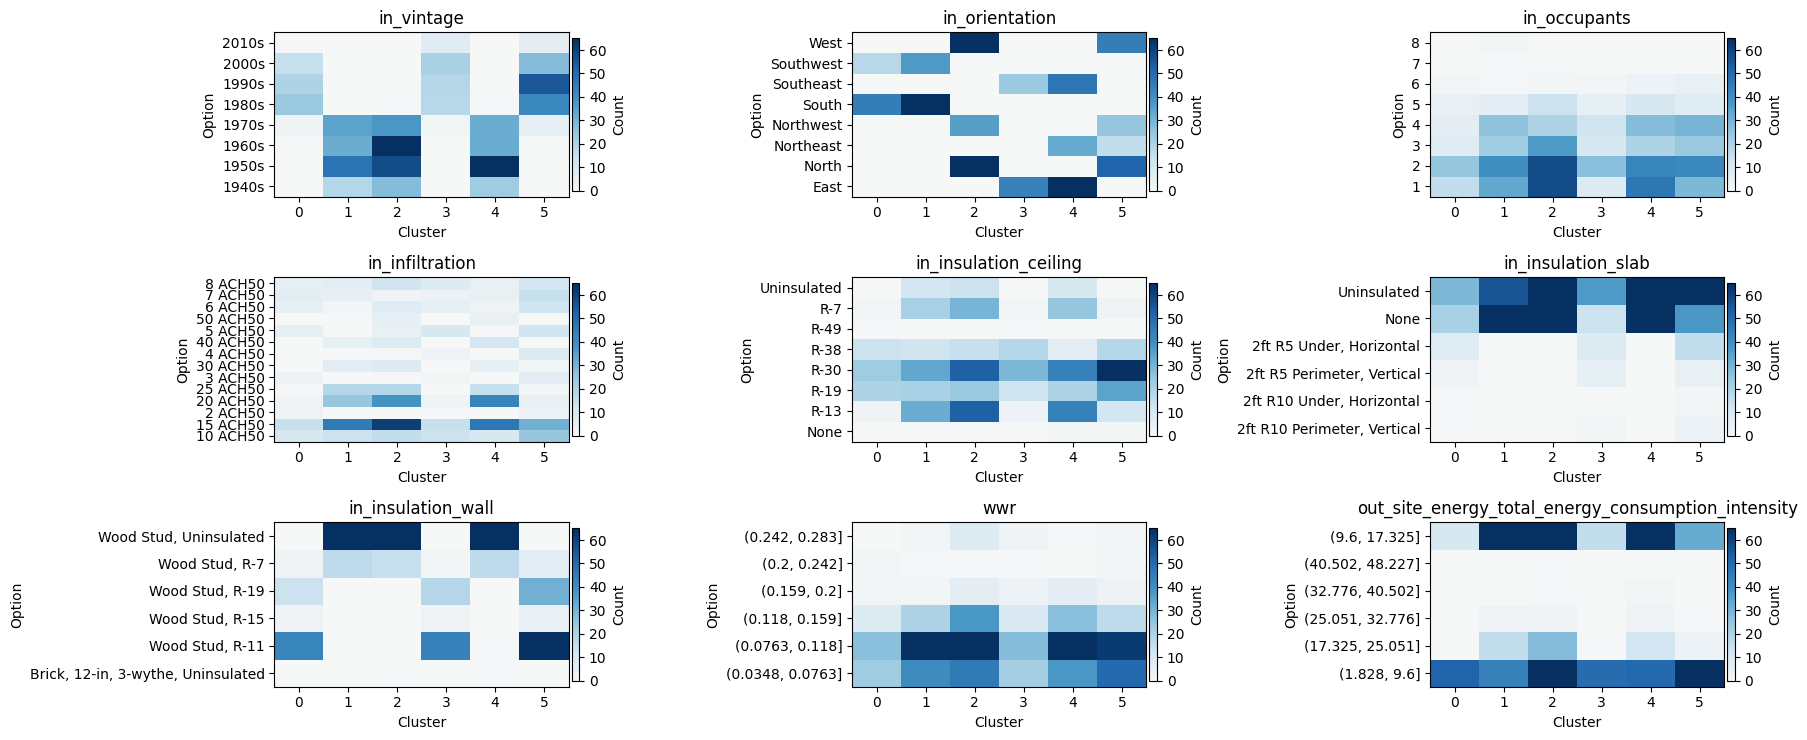
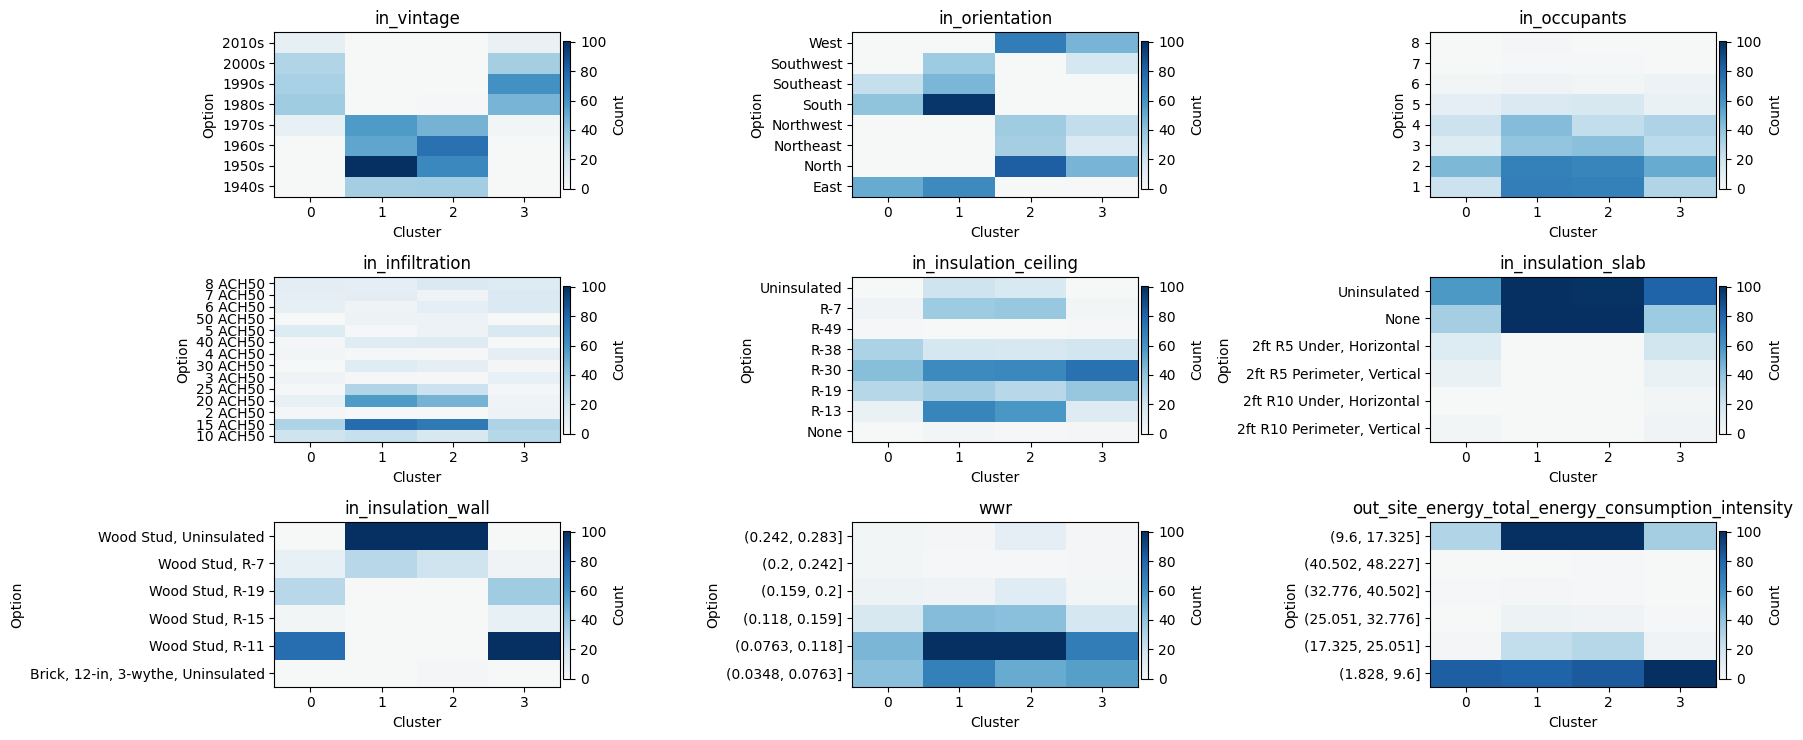
updated to select only bldgs with 1 thermal zone

diff --git a/doe_xstock/exploration.py b/doe_xstock/exploration.py
@@ -478,6 +478,10 @@ class MetadataClustering:
         # only select buildings that have OS:AirLoopHVAC:UnitarySystem object in their OSM to avoid simulation errors where
         # there is no space cooling/heating load.
         where_clause += " AND id IN (SELECT metadata_id FROM model WHERE osm REGEXP 'OS:AirLoopHVAC:UnitarySystem')"
+
+        # only select buildings with one thermal zone
+        where_clause += " AND id IN (SELECT metadata_id FROM thermal_zone_count WHERE value = 1)"
+        
         query = f"""
         SELECT
             id,
